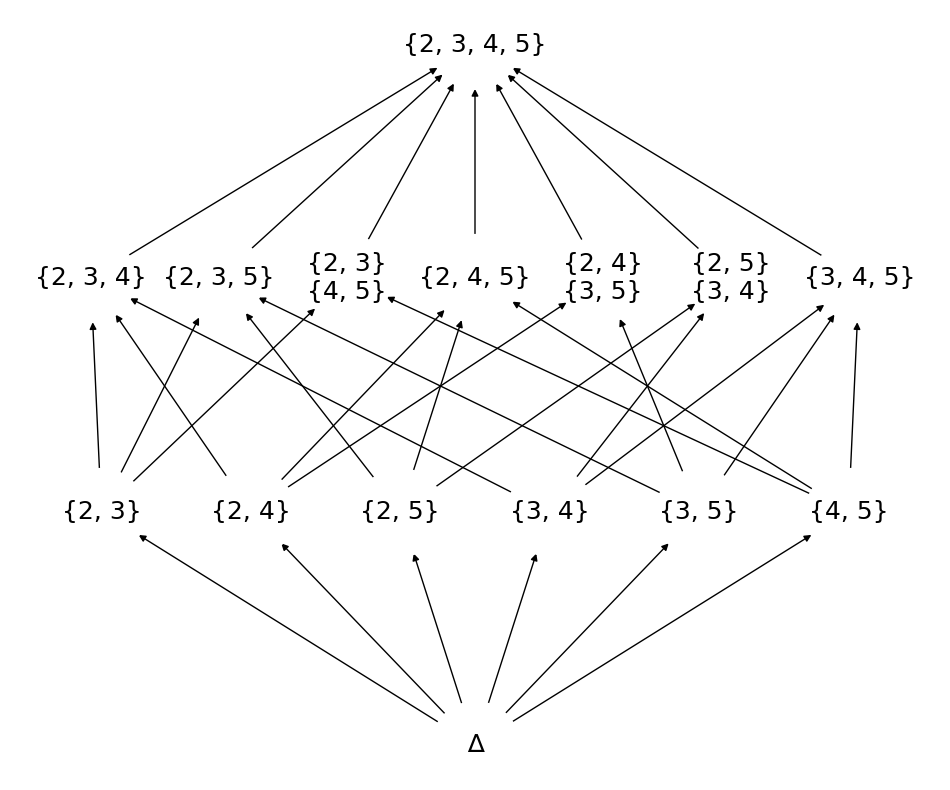
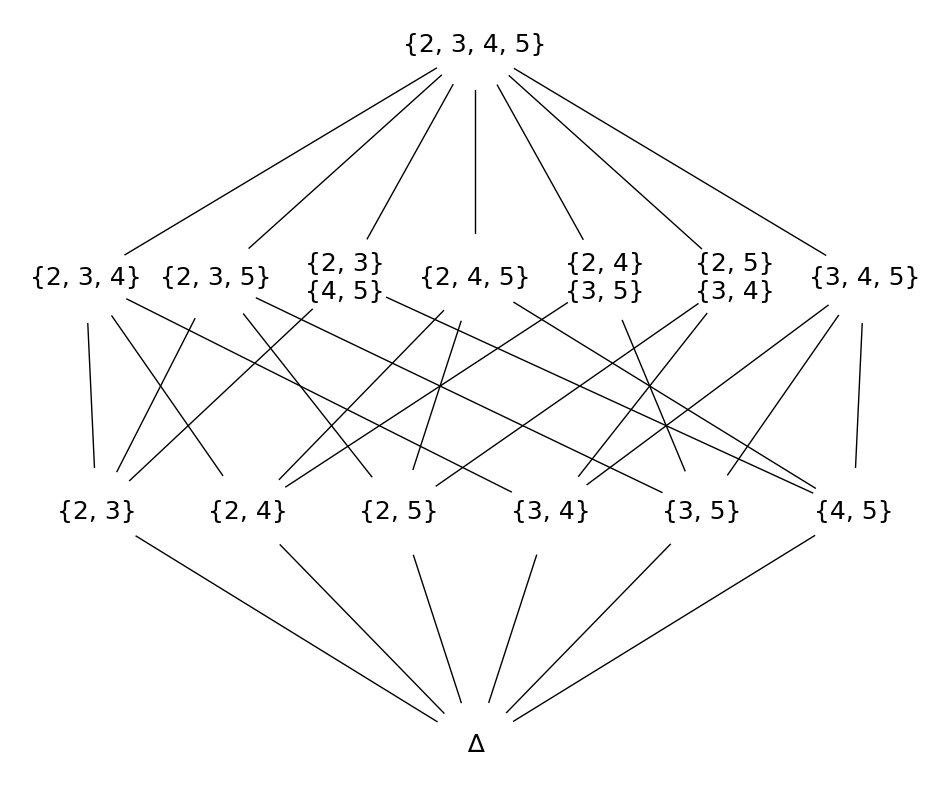
updated pictires, removed arrows

diff --git a/src/draw.py b/src/draw.py
@@ -1,5 +1,5 @@
 from networkx import draw_networkx, Graph
-from matplotlib.pyplot import figure, savefig, clf, gca, ylim
+from matplotlib.pyplot import figure, savefig, clf, gca, ylim, xlim
 
 from lattice import Lattice
 
@@ -11,8 +11,8 @@ fig_sizes = {
     4: (7, 7),
     5: (12, 10),
     6: (18, 18),
-    7: (40, 22),
-    8: (60, 40)
+    7: (50, 25),
+    8: (100, 50)
 }
 
 
@@ -33,10 +33,14 @@ def lattice_pos(g: Lattice, root, levels):
     currents = [0] * len(levels)
     dy = 1 / (len(levels) - 1) if len(levels) > 1 else 0.5
 
+    min_left = 1
+
     def _make_pos(pos, node):
         level = g.nodes_levels[node]
         dx = 1 / len(levels[level])
         left = dx / 2
+        nonlocal min_left
+        min_left = min(min_left, left)
         pos[node] = (left + dx * currents[level], -1 + dy * level)
         currents[level] += 1
         for outer_node in g.successors(node):
@@ -45,17 +49,18 @@ def lattice_pos(g: Lattice, root, levels):
 
     res = {}
     _make_pos(res, root)
-    return res
+    return res, min_left
 
 
 def draw_lattice(g: Lattice, filename: str):
     clf()
-    pos = lattice_pos(g, g.start.string, levels=g.levels)
+    pos, min_left = lattice_pos(g, g.start.string, levels=g.levels)
     fig_size = fig_sizes.get(g.g.number_of_nodes(), (100, 100))
     figure(figsize=fig_size)
     labels = {node: split_label(node) for node in g.nodes}
-    draw_networkx(g, pos=pos, node_size=4000, node_color='white', dpi=800, labels=labels, font_size=18)
+    draw_networkx(g, pos=pos, node_size=4000, node_color='white', dpi=800, labels=labels, font_size=18, arrows=False)
     ylim(-1 - 1 / fig_size[1] / 2, 1 / fig_size[1] / 2)
+    xlim(min_left - 1 / fig_size[0], 1 - min_left + 1 / fig_size[0])
     gca().axis('off')
     savefig(filename, bbox_inches='tight')
     clf()
